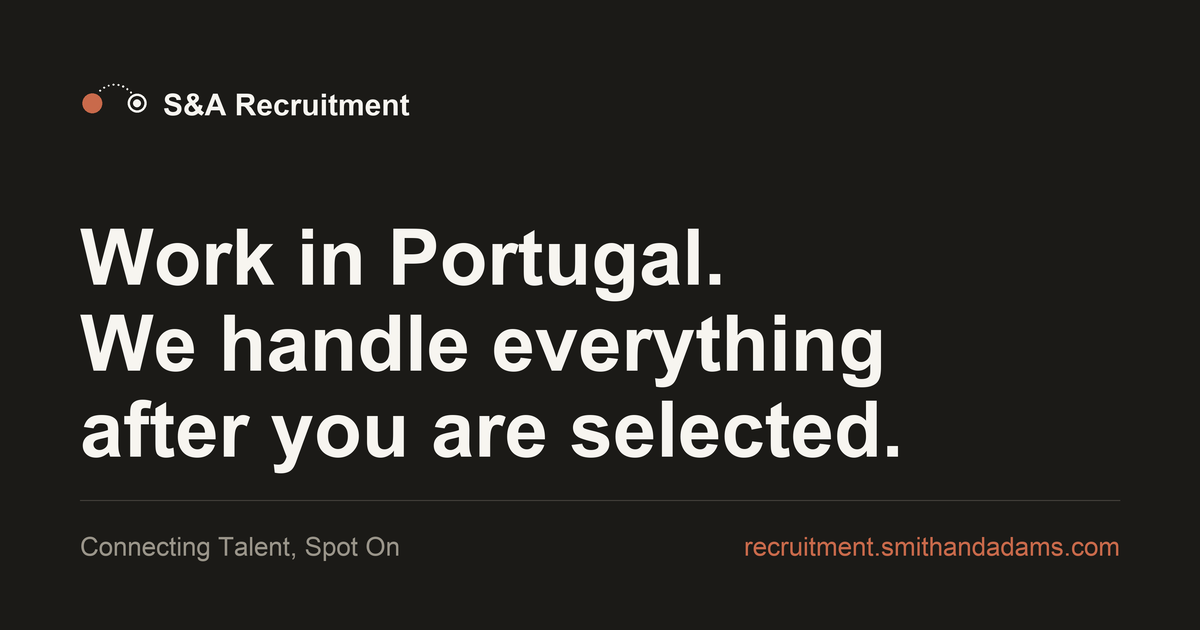
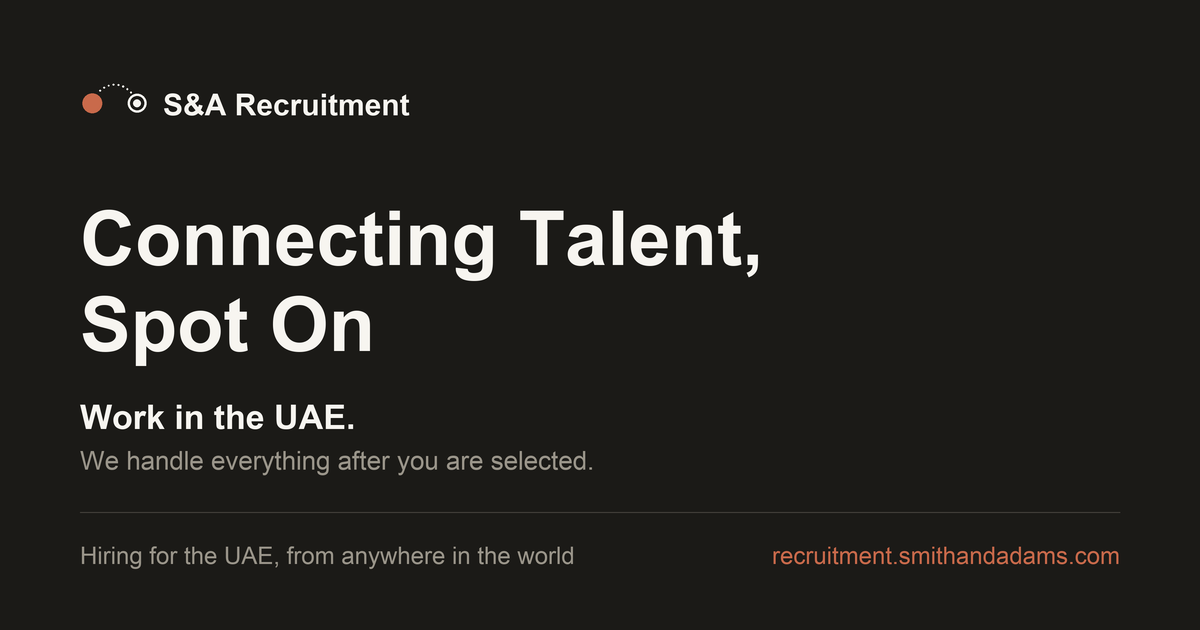
Give the page a city it can stand behind, and a card that is current
The photograph slot beside "what a selected candidate receives" had been empty
since the Lisbon one came out. Sheikh Zayed Road at sunset fills it: the towers
and the Burj are what make it unmistakably Dubai rather than any city with a
skyline, which is the whole reason a city photograph belongs there at all.

Cropped from the top rather than the centre, because the bottom of the frame is
a balcony rail. Exported at the two widths the slot asks for with an inline
low-quality placeholder, so the band holds the picture instead of a hole.

The share card still said "Work in Portugal". Redrawn to the page's current
hierarchy, with the slogan leading and the destination under it.

diff --git a/src/app/[locale]/page.tsx b/src/app/[locale]/page.tsx
@@ -293,6 +293,30 @@ export default async function CandidateLanding({ params }: { params: Promise<{ l
           </p>
         </div>
 
+        {/*
+          Dubai, not a bedroom.
+
+          The slot was labelled "staff accommodation" once, and a stock
+          photograph of an unrelated flat beside a list that promises housing
+          reads as a picture of the housing. This shows the city the job is in,
+          which is something the page can stand behind: Sheikh Zayed Road at
+          sunset, with the Burj in the skyline, is unmistakably Dubai rather
+          than any city with towers.
+
+          It replaces the Lisbon photograph that stood here until the
+          destination changed.
+        */}
+        <div className="relative aspect-[4/5] w-full overflow-hidden rounded-[24px]">
+          <Image
+            src="/dubai-skyline-1200.jpg"
+            alt="Sheikh Zayed Road in Dubai at sunset, looking along the skyline towards the Burj Khalifa"
+            fill
+            sizes="(max-width: 900px) 100vw, 480px"
+            placeholder="blur"
[1 lines of base64/hex data omitted]
+            className="object-cover"
+          />
+        </div>
       </section>
 
       {/* -------------------------------------------------------------- funnel */}

diff --git a/docs/session-handoff.md b/docs/session-handoff.md
@@ -4,6 +4,50 @@ Newest entry first. Each entry carries date, time and the authoring account.
 
 ---
 
+## Bloco 45 - 08 Oct 2026, abilio.diz@smithandadams.com
+
+**Fecho das pendencias do pivot.**
+
+### Foto do Dubai
+
+`dubai-skyline-sunset-time-united-arab-emirates.jpg` (3000x4500, 8,6 MB) ->
+`public/dubai-skyline-800.jpg` (131 KB) e `-1200.jpg` (269 KB), corte 4:5, q80
+progressivo 4:2:0, mais LQIP inline. Cortada **a partir do topo e nao do
+centro**: o fundo do enquadramento e a grade de uma varanda, e o que torna a
+foto inequivocamente Dubai sao as torres e o Burj.
+
+Ocupa o lugar que a foto de Lisboa deixou vago na seccao "What a selected
+candidate receives". Verificado a carregar e a enquadrar.
+
+### Cartao de partilha redesenhado
+
+`public/brand/og.png` refeito com a hierarquia nova: o **slogan como titulo**,
+"Work in the UAE." como linha de apoio, e o dominio no rodape. O anterior ainda
+dizia "Work in Portugal".
+
+### Confirmado / decidido pelo Abilio
+
+- **Traducoes hindi e arabe aprovadas.** Deixa de estar pendente leitura por
+  nativo.
+- **Os 138 itens do assessment ficam a cair para ingles em arabe**, por decisao.
+  Nao e falta: e escolha.
+- **Migracao 0013 confirmada corrida** - `item_stats` responde 200.
+
+### Por confirmar
+
+A **0012** nao da para verificar de fora: o PostgREST nao expoe a definicao da
+funcao e `start_assessment_attempt` falha da mesma maneira nas duas versoes
+quando chamada sem sessao. Para confirmar, no SQL editor:
+
+```sql
+select pg_get_functiondef(oid) ilike '%payment_status%' as ainda_exige_pagamento
+from pg_proc where proname = 'start_assessment_attempt';
+```
+
+`false` = a 0012 esta corrida.
+
+---
+
 ## Bloco 44 - 08 Oct 2026, abilio.diz@smithandadams.com
 
 **Video de fundo no hero, por tras de uma cortina terracota.**
